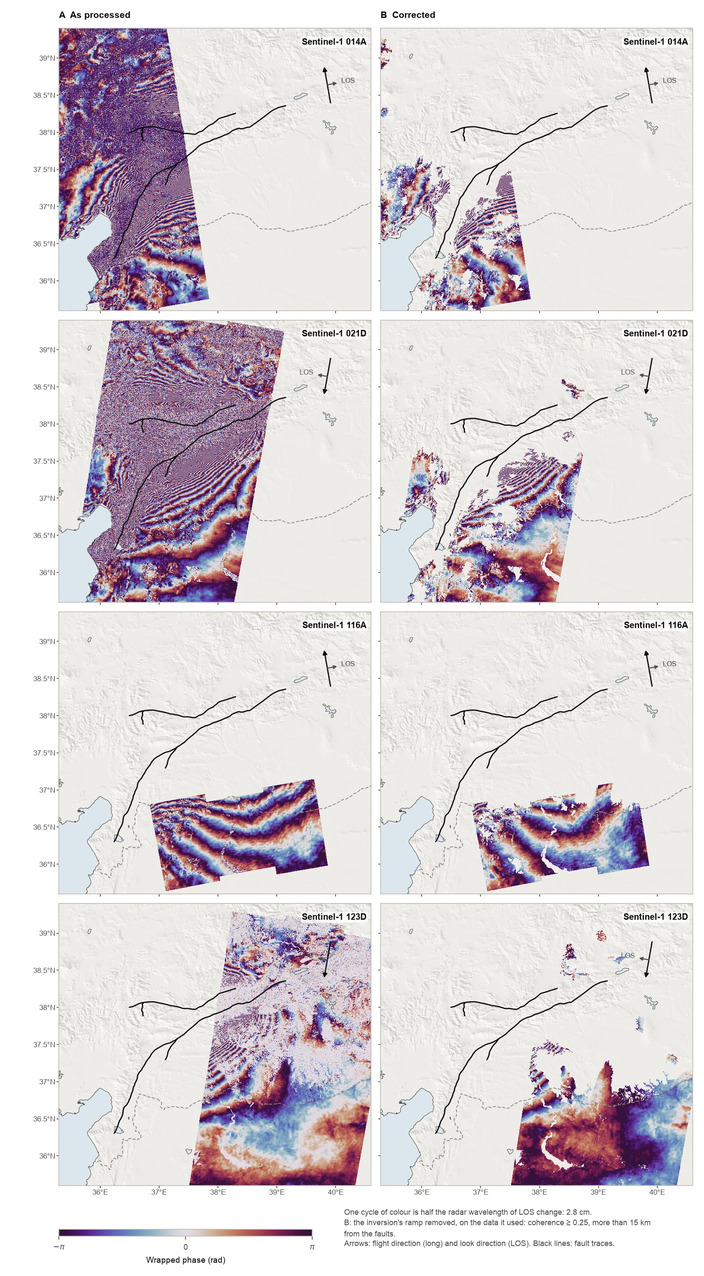
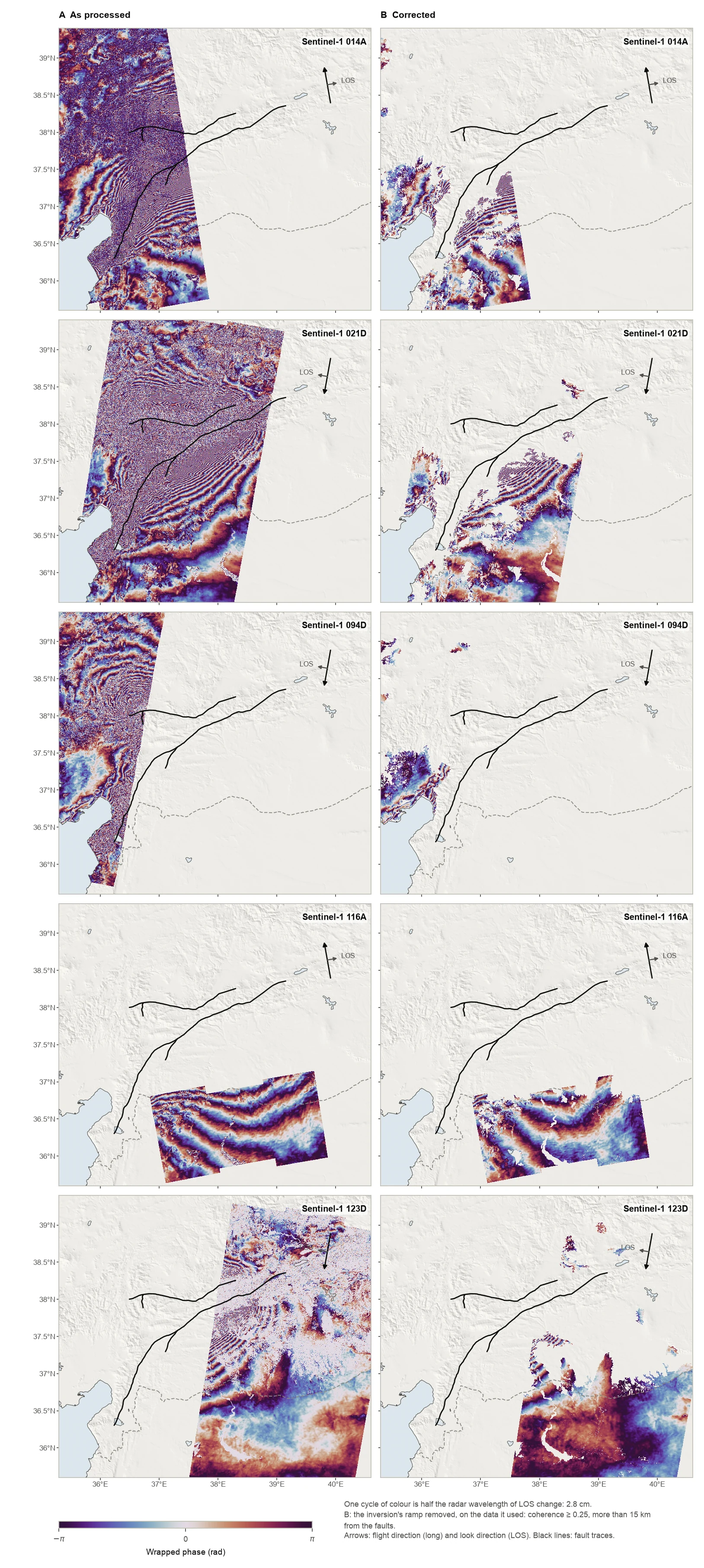
Slip models: Türkiye from the run with descending track 094D added
The model now also fits Sentinel-1 track 094D's two LiCSAR frames (interferograms on five tracks). Mw unchanged
(7.84, 7.69); peak slip 8.0 m on the Pazarcık segment and 8.4 m on the Çardak fault. 094D's frames share one row in
the interferogram and fit figures; all eight figures redrawn from the new run.

Claude-Session: https://claude.ai/code/session_01Jh7HRsr9rCQcLgEgc5zuzg

diff --git a/research/slip-models/index.html b/research/slip-models/index.html
@@ -150,14 +150,14 @@
           <dt>Date</dt>
           <dd>6 February 2023; Mw 7.8 (01:17 UTC) and Mw 7.7 (10:24 UTC)</dd>
           <dt>Our model</dt>
-          <dd>Mw 7.84 and 7.69; peak slip 7.9 m (Pazarcık segment) and 8.3 m (Çardak fault)</dd>
+          <dd>Mw 7.84 and 7.69; peak slip 8.0 m (Pazarcık segment) and 8.4 m (Çardak fault)</dd>
           <dt>Faults</dt>
           <dd>The East Anatolian Fault (Amanos, Pazarcık and Erkenek segments, vertical), the Narlı fault, the Çardak
           fault (dipping 65° north) and a north&ndash;south strand, to 26 km depth; the dips and depth chosen by
           cross-validation</dd>
           <dt>Data</dt>
-          <dd>Sentinel-1 range and azimuth offsets on four tracks (Ou et al., 2024), Sentinel-1 interferograms in the
-          far field (COMET LiCSAR), and GNSS for each event separately (Nevada Geodetic Laboratory)</dd>
+          <dd>Sentinel-1 range and azimuth offsets on four tracks (Ou et al., 2024), Sentinel-1 interferograms on five
+          tracks in the far field (COMET LiCSAR), and GNSS for each event separately (Nevada Geodetic Laboratory)</dd>
         </dl>
         <figure class="slip-figure">
           <a href="../../assets/img/slip/turkiye_2023/slip.webp"><img src="../../assets/img/slip/turkiye_2023/slip.webp" alt="Slip on the fault sheets of the 2023 Kahramanmaraş earthquake doublet, and a map of their traces" loading="lazy"></a>
@@ -171,7 +171,7 @@
           <summary>The data: interferograms, GNSS and pixel offsets</summary>
           <figure class="slip-figure">
             <a href="../../assets/img/slip/turkiye_2023/insar.webp"><img src="../../assets/img/slip/turkiye_2023/insar.webp" alt="Interferograms of the 2023 Kahramanmaraş earthquake doublet, as processed and corrected" loading="lazy"></a>
-            <figcaption><strong>Interferograms.</strong> Each track (A) as processed and (B) corrected: the inversion's ramp removed. B shows the data the inversion used: the coherent far field (coherence at least 0.25), more than 15 km from the faults, where LiCSAR's unwrapping fails across the ruptures; the pixel offsets cover the near field. Wrapped phase: one cycle of colour is half the radar wavelength of line-of-sight change.</figcaption>
+            <figcaption><strong>Interferograms.</strong> Each track (A) as processed and (B) corrected: the inversion's ramp removed. B shows the data the inversion used: the coherent far field (coherence at least 0.25), more than 15 km from the faults, where LiCSAR's unwrapping fails across the ruptures; the pixel offsets cover the near field. Track 094D's two frames share a row; each entered the inversion as its own track. Wrapped phase: one cycle of colour is half the radar wavelength of line-of-sight change.</figcaption>
           </figure>
           <figure class="slip-figure">
             <a href="../../assets/img/slip/turkiye_2023/gnss_offsets.webp"><img src="../../assets/img/slip/turkiye_2023/gnss_offsets.webp" alt="GNSS displacements and pixel offsets for the 2023 Kahramanmaraş earthquake doublet" loading="lazy"></a>
@@ -190,7 +190,7 @@
           </figure>
           <figure class="slip-figure">
             <a href="../../assets/img/slip/turkiye_2023/fits_phase.webp"><img src="../../assets/img/slip/turkiye_2023/fits_phase.webp" alt="Data, model and residual for the 2023 Kahramanmaraş earthquake doublet" loading="lazy"></a>
-            <figcaption><strong>Fits: interferograms, far field.</strong> Each track's samples: (A) the data with the inversion's ramp removed, (B) the model's fault part and (C) the residual, with its rms.</figcaption>
+            <figcaption><strong>Fits: interferograms, far field.</strong> Each track's samples: (A) the data with the inversion's ramp removed, (B) the model's fault part and (C) the residual, with its rms; track 094D's two frames share a row.</figcaption>
           </figure>
           <figure class="slip-figure">
             <a href="../../assets/img/slip/turkiye_2023/uncertainty.webp"><img src="../../assets/img/slip/turkiye_2023/uncertainty.webp" alt="Uncertainty of slip for the 2023 Kahramanmaraş earthquake doublet" loading="lazy"></a>
